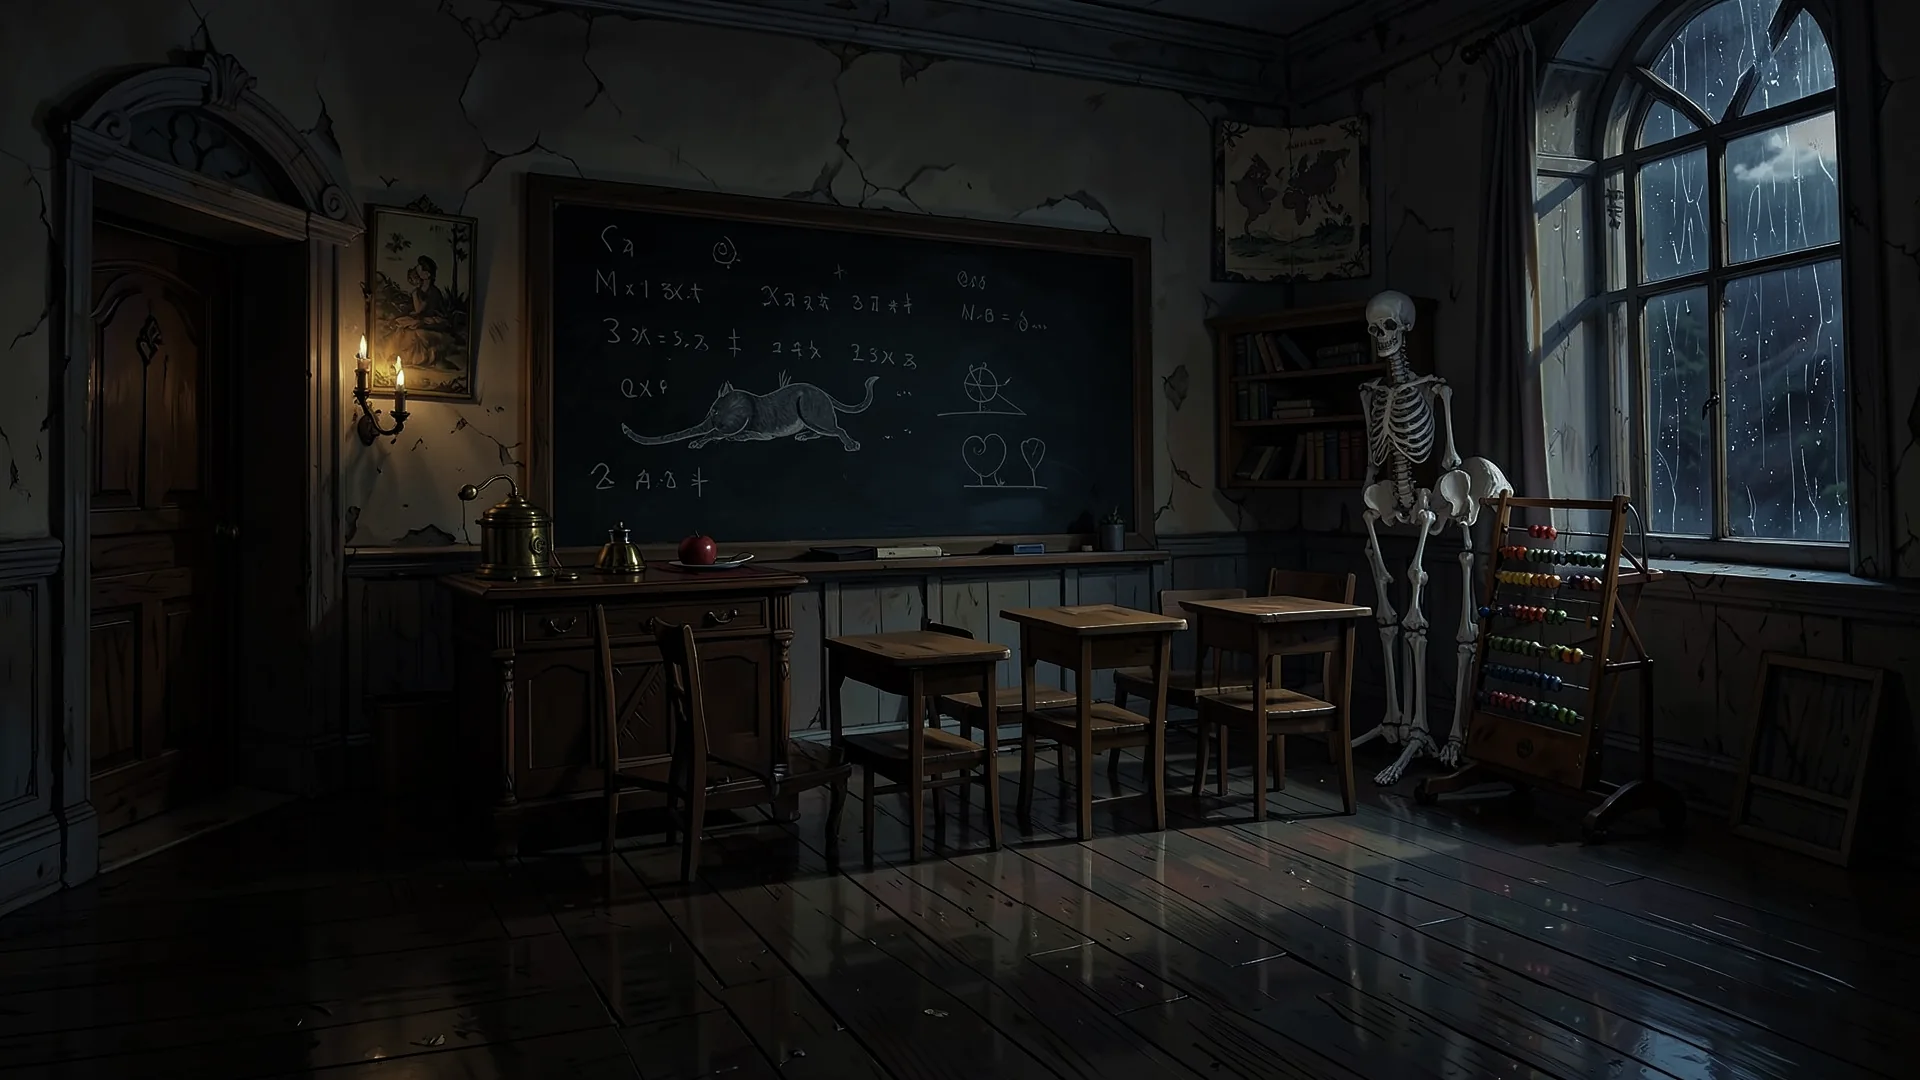
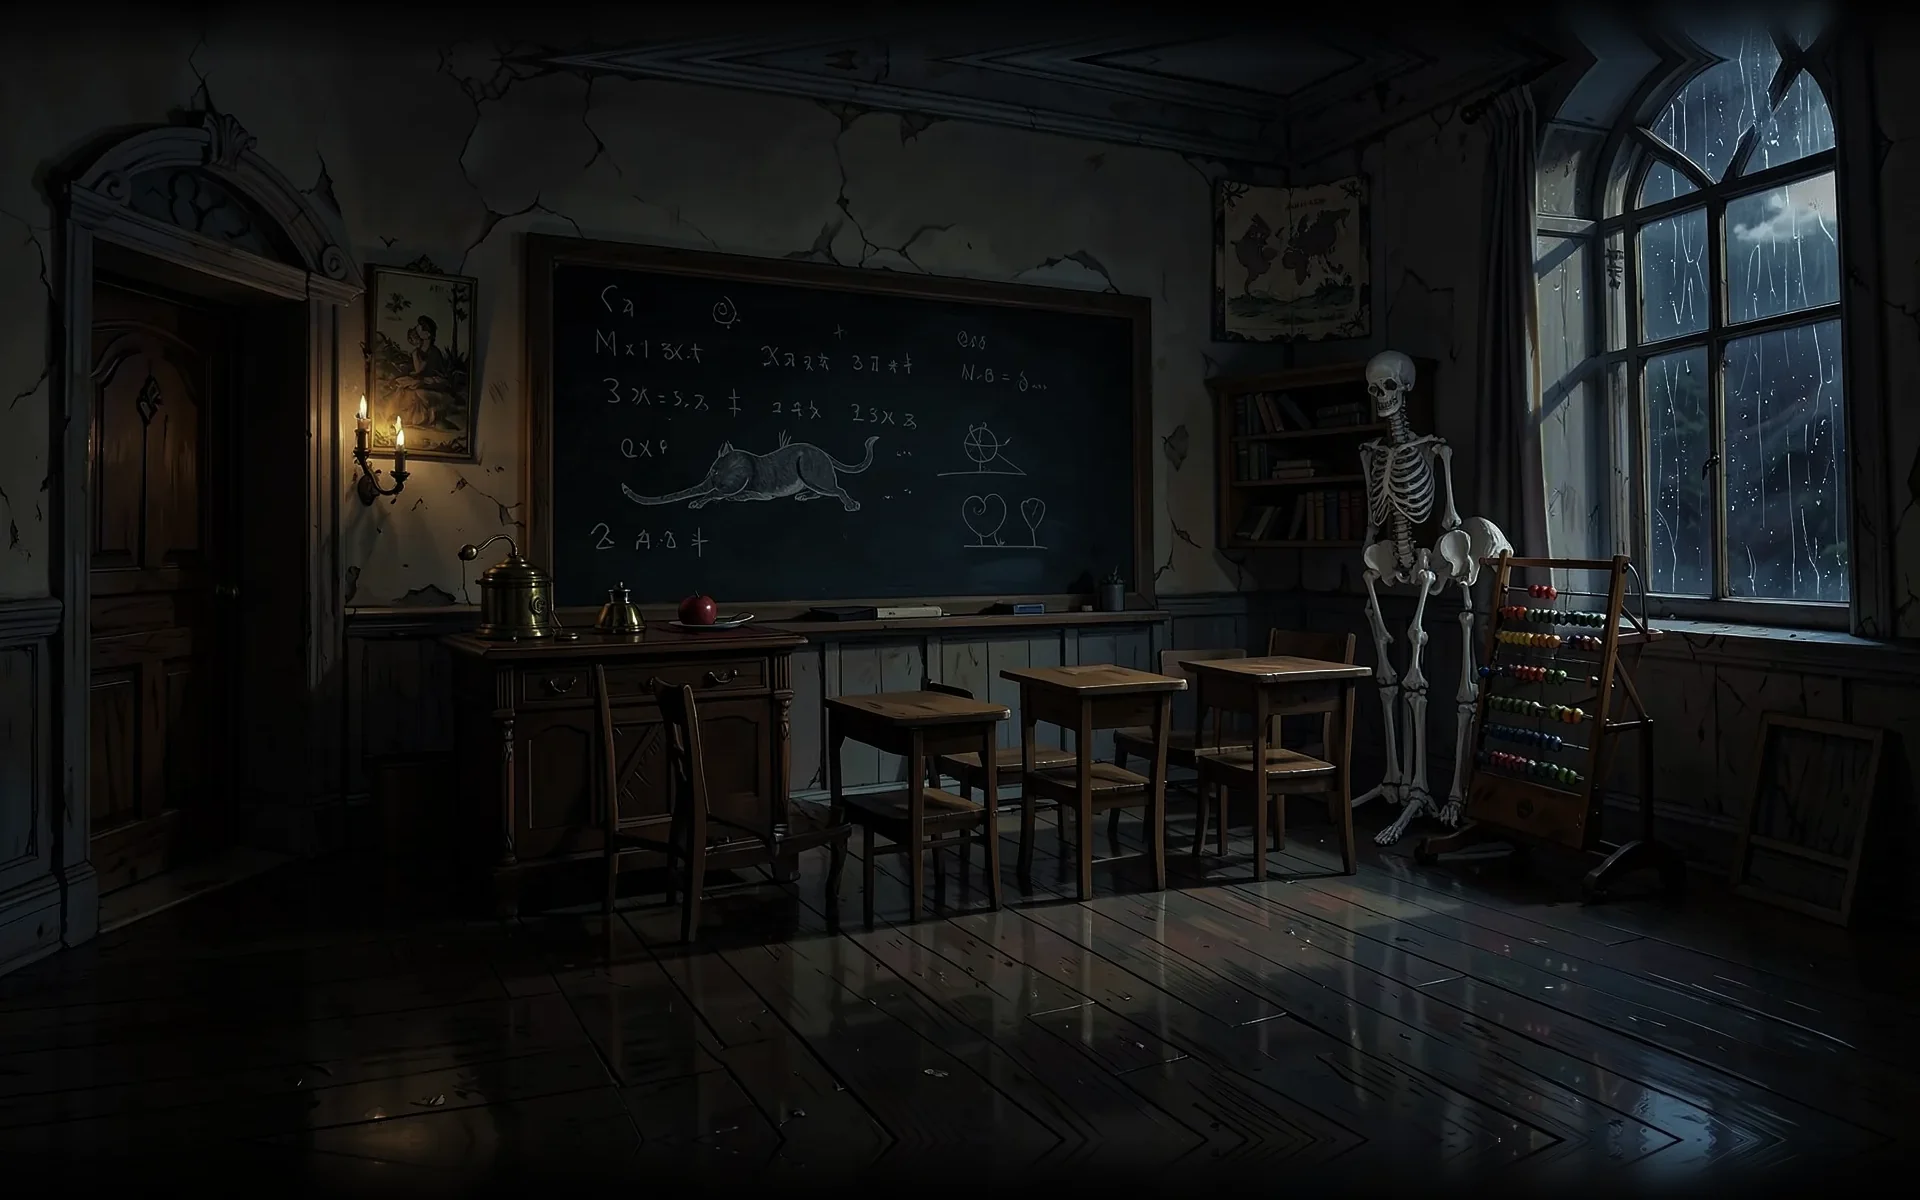
Segunda planta a 16:10, sus originales y final con Aurelia y el vestido

diff --git a/src/scenes/WorldScene.ts b/src/scenes/WorldScene.ts
@@ -493,6 +493,12 @@ export class WorldScene extends Phaser.Scene {
       "Cinco recuerdos, una fiesta preparada… y trece campanadas contadas sin dar un solo golpe.",
       { by: "ines", text: "¡Me acuerdo! Me acuerdo de todo: de mi casa, de mi cinta, de mi canción." },
       { by: "ines", text: "Y de tu voz, Paula. Gracias por no irte." },
+      ...(session.state.flags["aurelia-recuerda"]
+        ? [{ by: "aurelia", text: "Inés, tesoro… Aquí tienes tu diario. Paula encontró todas las páginas." } as Line]
+        : []),
+      ...(session.state.flags["vestido-listo"]
+        ? [{ by: "ines", text: "¿Y ese vestido rosa con lazos? ¿Es… para mí? ¡Es el de mi fiesta!" } as Line]
+        : []),
       { by: "basilio", text: "Señorita… ha dejado de llover. Por primera vez en cien años, en esta casa amanece." },
       { by: "gafe", text: "Prrr. (Gafe ronronea tan fuerte que tiembla la torre.)" },
       "Vamos, Gafe. Hay que contarle a todo el mundo que esta casa ya no da miedo.",

diff --git a/tools/extend_rooms.py b/tools/extend_rooms.py
@@ -19,7 +19,8 @@ ROOT = os.path.abspath(os.path.join(os.path.dirname(__file__), ".."))
 B = 60
 W, H = 1920, 1080
 ROOMS = ["vestibulo", "biblioteca", "cocina", "archivo", "invernadero", "galeria", "dormitorio", "observatorio",
-         "musica", "desvan", "tuneles", "torre", "baile", "comedor", "jardin", "taller", "estudio", "teatro"]
+         "musica", "desvan", "tuneles", "torre", "baile", "comedor", "jardin", "taller", "estudio", "teatro",
+         "rellano", "aula", "costura", "alcoba", "pajarera"]
 EXTRA = {
     "cover": (os.path.join(ROOT, "art", "cover-paula-gafe-v2.png"), os.path.join(ROOT, "public", "cover.webp")),
     "fiesta": (os.path.join(ROOT, "art", "salas-nuevas", "fiesta.webp"), os.path.join(ROOT, "public", "world", "fiesta.webp")),
